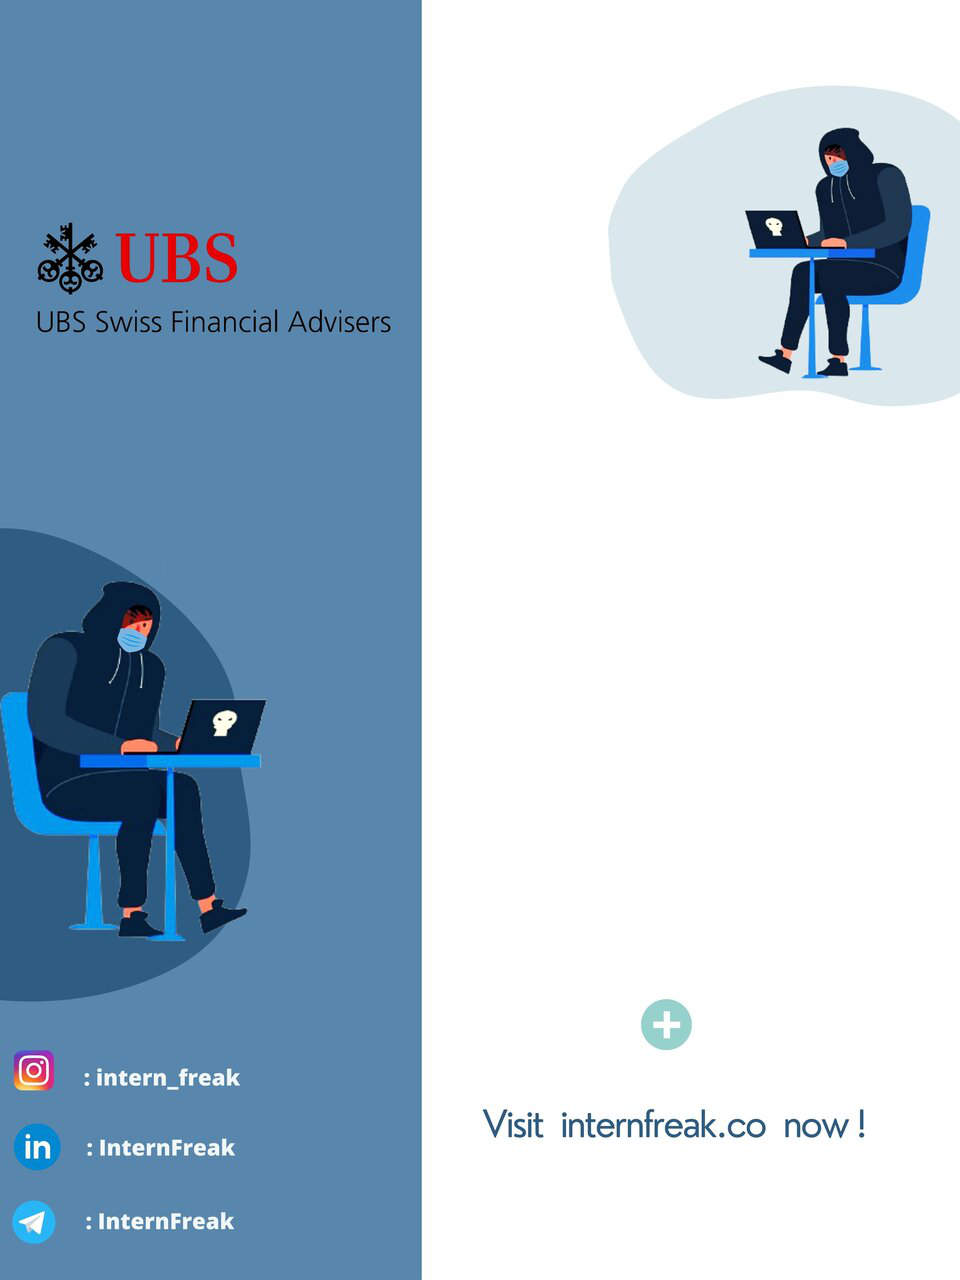
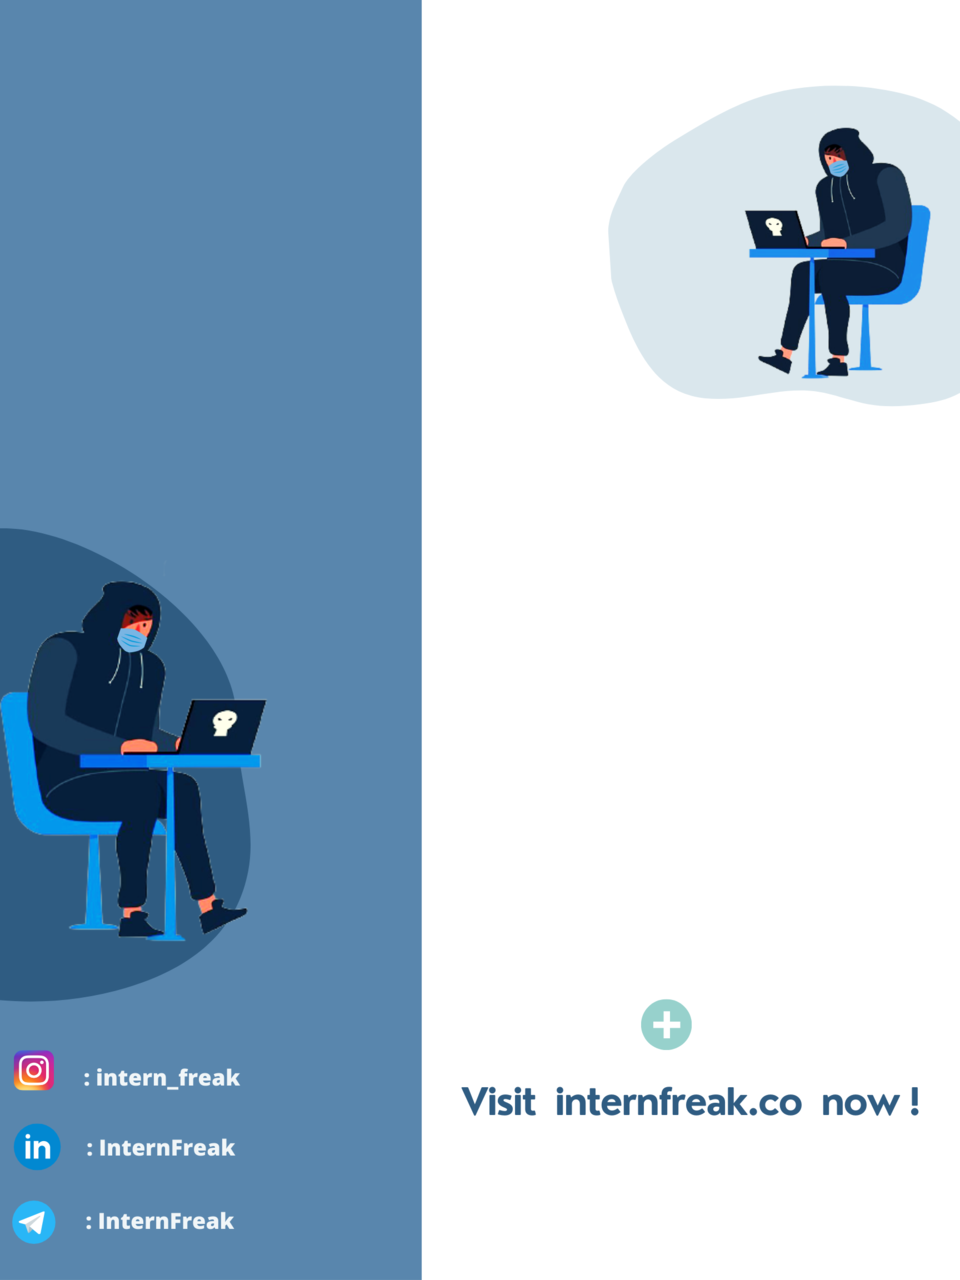
image bg remover added

diff --git a/venv/lib/python3.8/site-packages/removebg/removebg.py b/venv/lib/python3.8/site-packages/removebg/removebg.py
@@ -1,0 +1,83 @@
+from __future__ import absolute_import
+import requests
+import logging
+
+API_ENDPOINT = "https://api.remove.bg/v1.0/removebg"
+
+
+class RemoveBg(object):
+
+    def __init__(self, api_key, error_log_file):
+        self.__api_key = api_key
+        logging.basicConfig(filename=error_log_file)
+
+    def remove_background_from_img_file(self, img_file_path, size="regular", bg_color=None):
+        """
+        Removes the background given an image file and outputs the file as the original file name with "no_bg.png"
+        appended to it.
+        :param img_file_path: the path to the image file
+        :param size: the size of the output image (regular = 0.25 MP, hd = 4 MP, 4k = up to 10 MP)
+        """
+        # Open image file to send information post request and send the post request
+        img_file = open(img_file_path, 'rb')
+        response = requests.post(
+            API_ENDPOINT,
+            files={'image_file': img_file},
+            data={
+                'size': size,
+                'bg_color': bg_color
+            },
+            headers={'X-Api-Key': self.__api_key})
+        response.raise_for_status()
+        self.__output_file__(response, img_file.name + "_no_bg.png")
+
+        # Close original file
+        img_file.close()
+
+    def remove_background_from_img_url(self, img_url, size="regular", new_file_name="no-bg.png", bg_color=None):
+        """
+        Removes the background given an image URL and outputs the file as the given new file name.
+        :param img_url: the URL to the image
+        :param size: the size of the output image (regular = 0.25 MP, hd = 4 MP, 4k = up to 10 MP)
+        :param new_file_name: the new file name of the image with the background removed
+        """
+        response = requests.post(
+            API_ENDPOINT,
+            data={
+                'image_url': img_url,
+                'size': size,
+                'bg_color': bg_color
+            },
+            headers={'X-Api-Key': self.__api_key}
+        )
+        response.raise_for_status()
+        self.__output_file__(response, new_file_name)
+
+    def remove_background_from_base64_img(self, base64_img, size="regular", new_file_name="no-bg.png", bg_color=None):
+        """
+        Removes the background given a base64 image string and outputs the file as the given new file name.
+        :param base64_img: the base64 image string
+        :param size: the size of the output image (regular = 0.25 MP, hd = 4 MP, 4k = up to 10 MP)
+        :param new_file_name: the new file name of the image with the background removed
+        """
+        response = requests.post(
+            API_ENDPOINT,
+            data={
+                'image_file_b64': base64_img,
+                'size': size,
+                'bg_color': bg_color
+            },
+            headers={'X-Api-Key': self.__api_key}
+        )
+        response.raise_for_status()
+        self.__output_file__(response, new_file_name)
+
+    def __output_file__(self, response, new_file_name):
+        # If successful, write out the file
+        if response.status_code == requests.codes.ok:
+            with open(new_file_name, 'wb') as removed_bg_file:
+                removed_bg_file.write(response.content)
+        # Otherwise, print out the error
+        else:
+            error_reason = response.json()["errors"][0]["title"].lower()
+            logging.error("Unable to save %s due to %s", new_file_name, error_reason)

diff --git a/main.py b/main.py
@@ -12,9 +12,13 @@ from PIL import ImageFont
 import re
 import bitly_api
 import json
+from removebg import RemoveBg
+
 
 
 my_secret = os.environ.get('BotKey')
+Removebg_Api = os.environ.get('Removebg_Api')
+
 bot = telebot.TeleBot(my_secret )
 space=" "
 
@@ -65,9 +69,22 @@ def greet1(message1):
 
   urllib.request.urlretrieve(image_url,"logoImg.png")
   
-  orgimg = Image.open("logoImg.png").convert("RGBA")
+  #removing bg
+  rmbg = RemoveBg(Removebg_Api, "error.log")
+  rmbg.remove_background_from_img_file("logoImg.png")
+  
+  #cropping the image
+  
+  im = Image.open(r"logoImg.png_no_bg.png")
+  cropped = im.crop((3,2,300,300))
+  cropped.save('croppedLogo.png')
+  
+  #coverting into RGBA Format
+  
+  orgimg = Image.open("croppedLogo.png").convert("RGBA")
+  
+  img2=orgimg.resize((500,500))
 
-  img2=orgimg.resize((422, 159))
   
   img = Image.open('./template.png')
 
@@ -171,12 +188,12 @@ def greet1(message1):
   else:
     I3.text((530, 650), Batch[0].getText(), font=myFont, fill=(47, 92, 130))
 
-# masking logo of company  on the template
+# masking logo of the company  on the template
     
-  img.paste(img2, (0,200), mask = img2)
+  img.paste(img2, (-60,150), mask = img2)
+  
   # Save the edited image
-
-
+  
   img.save("./car2.png")
 
   # files={'photo':open('./car2.png','rb')}
@@ -214,7 +231,7 @@ def greet(message):
       long_url='https://internfreak.co/'+lamba[9:end]
 
   
-      bcc = bitly_api.Connection(access_token ='8b1ca9f2a88aa2d511bcb0ca88fb0ea7e2e3be0c')
+      bcc = bitly_api.Connection(access_token ='Bitly_Api')
 
     
       #bit.ly url shortener

diff --git a/venv/lib/python3.8/site-packages/removebg/__init__.py b/venv/lib/python3.8/site-packages/removebg/__init__.py
@@ -1,0 +1,2 @@
+from __future__ import absolute_import
+from removebg.removebg import RemoveBg
